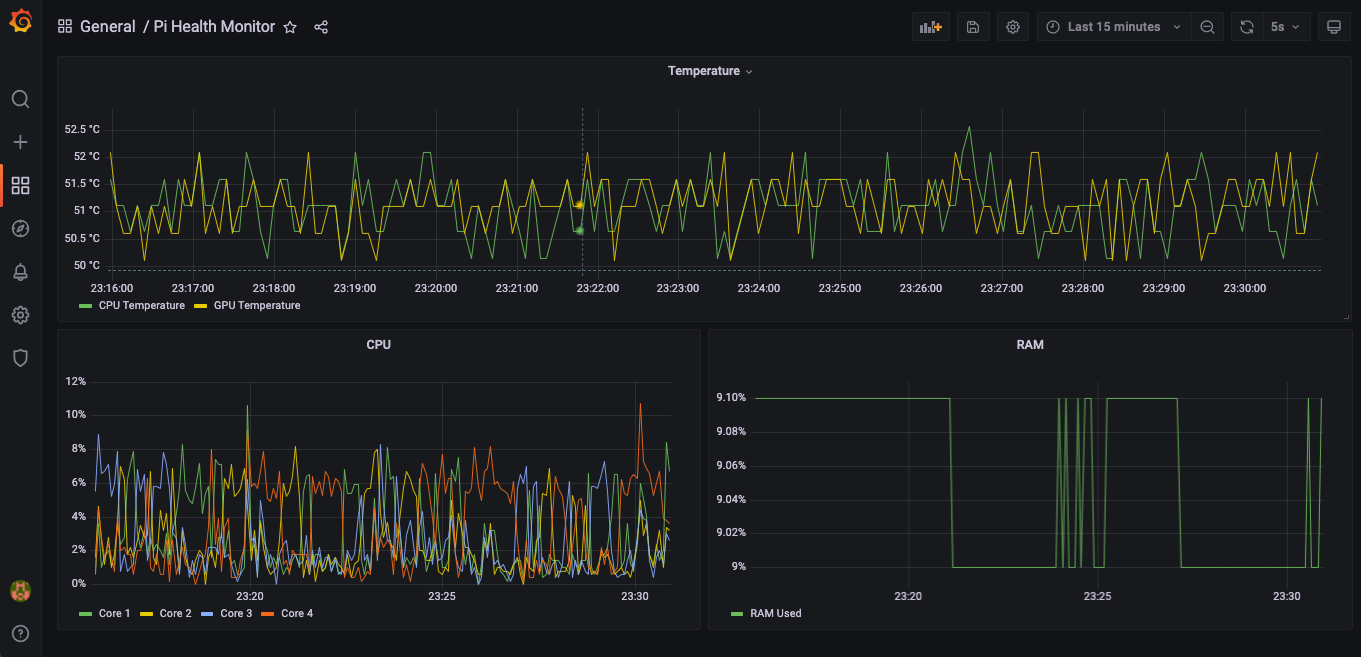
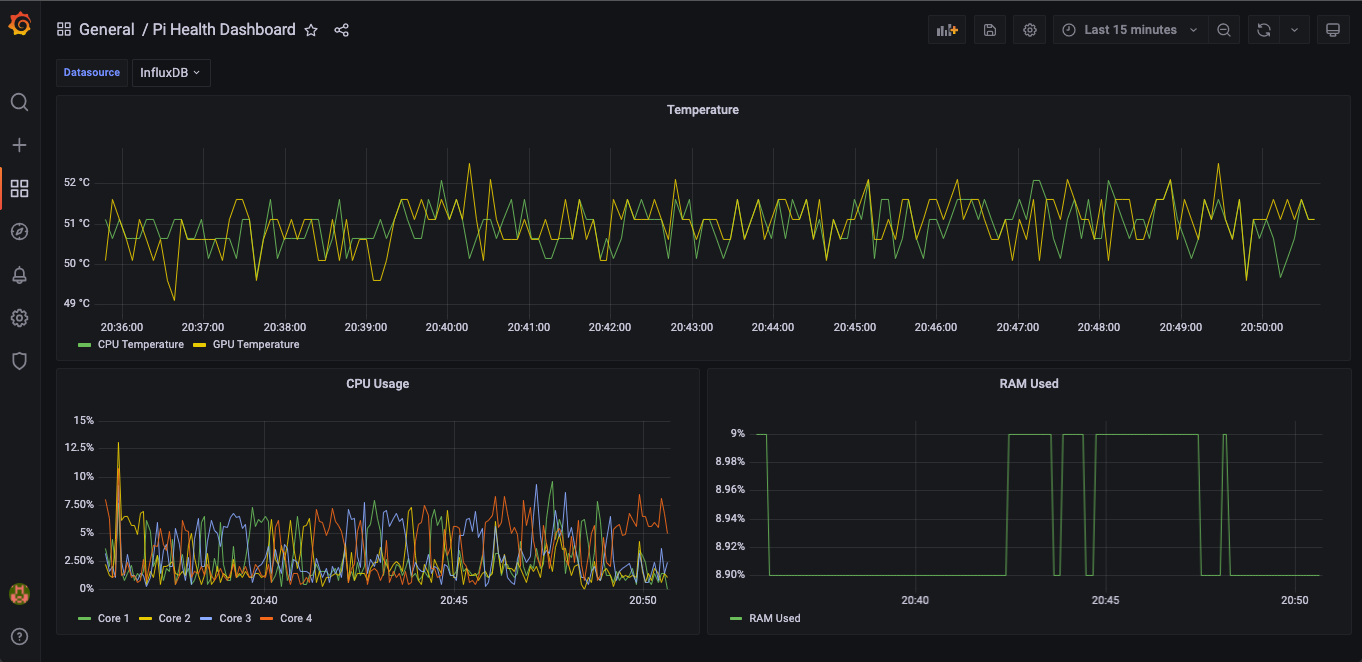
dashboard template updated

diff --git a/README.md b/README.md
@@ -35,4 +35,4 @@ The project was built and tested using below
 - if configurations are correct, pi-stat utility should start pushing metrics to Influx DB. Keep the console running
 - Open Grafana instance and login
 - add a new InfluxDB data source and point it to running InfluxDB instance
-- create a new dashboard but copying `dashboard.json` into grafana dashboard settings (you might need to adjust the datasource)
+- create a new dashboard by importing `dashboard.json` and select the InfluxDB datasource on the dashboard variable
